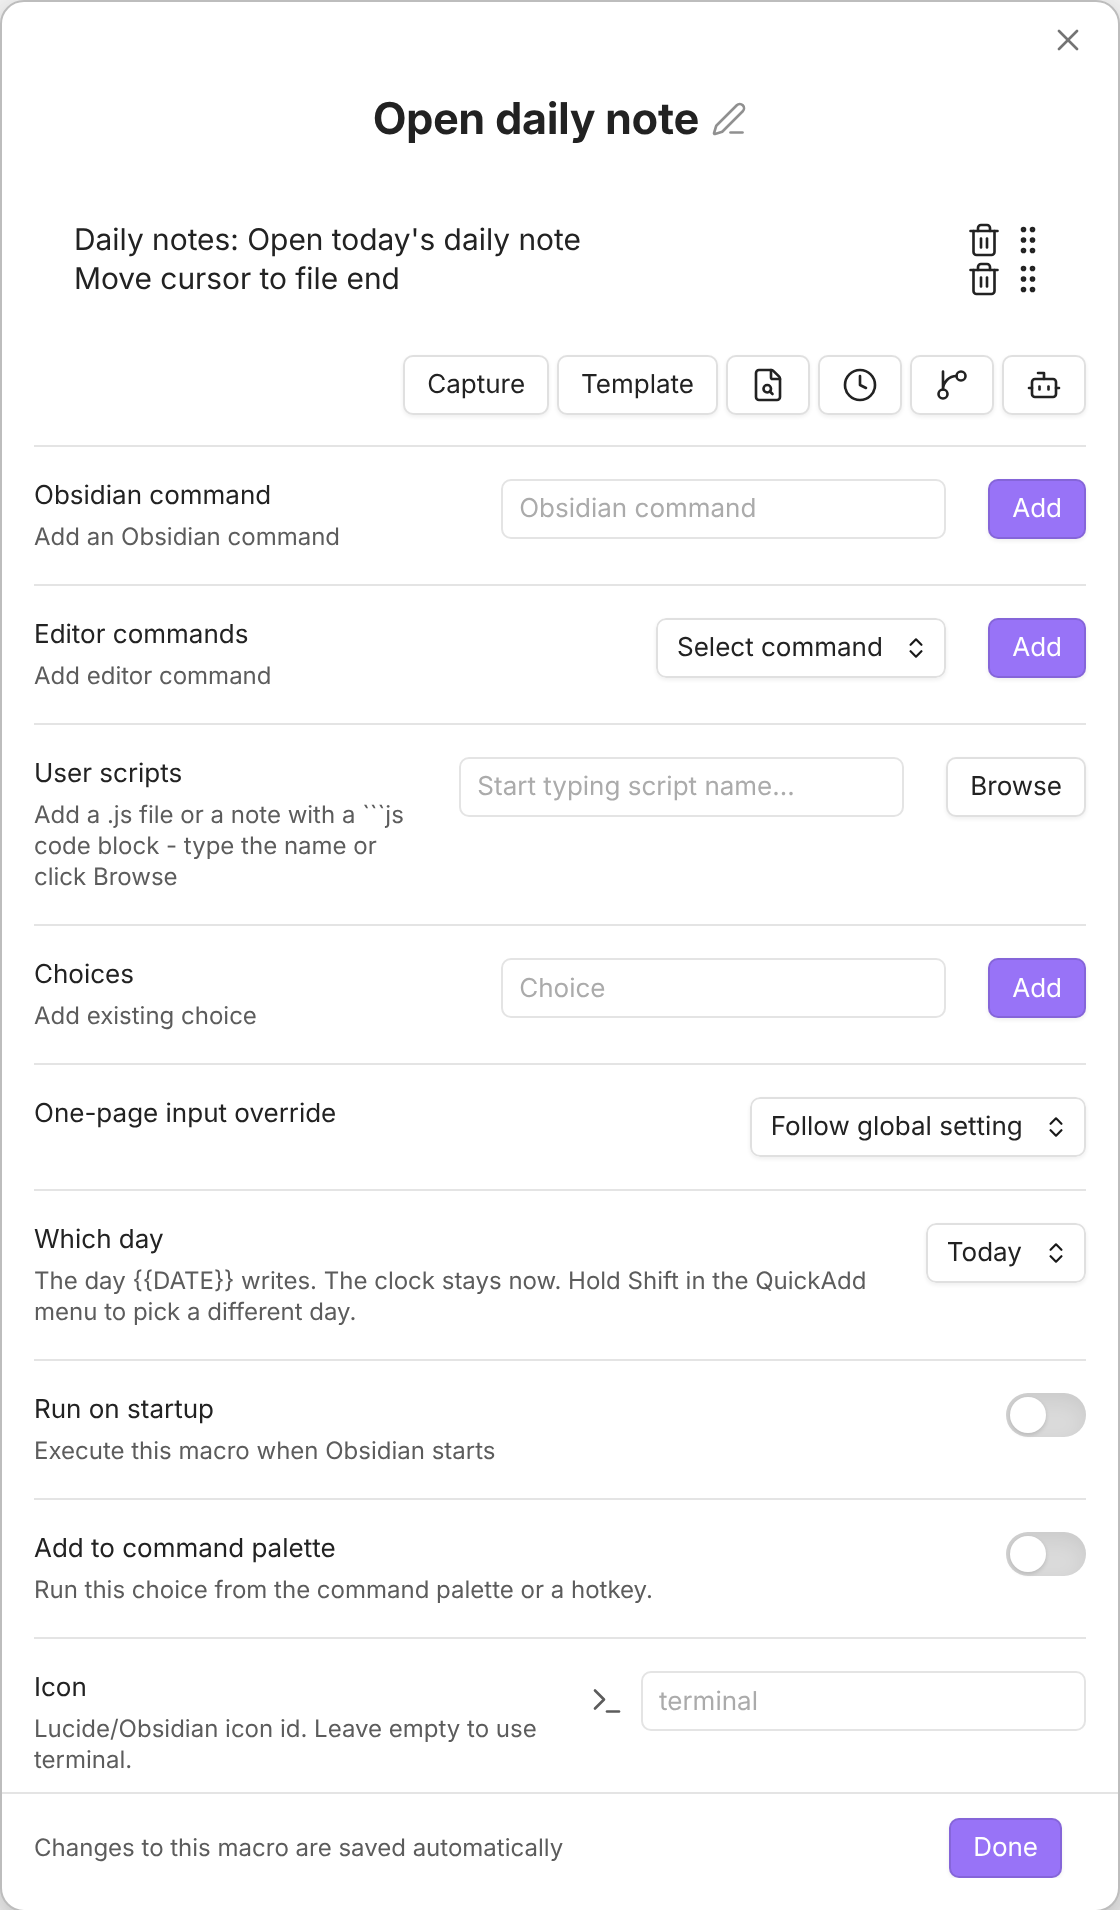
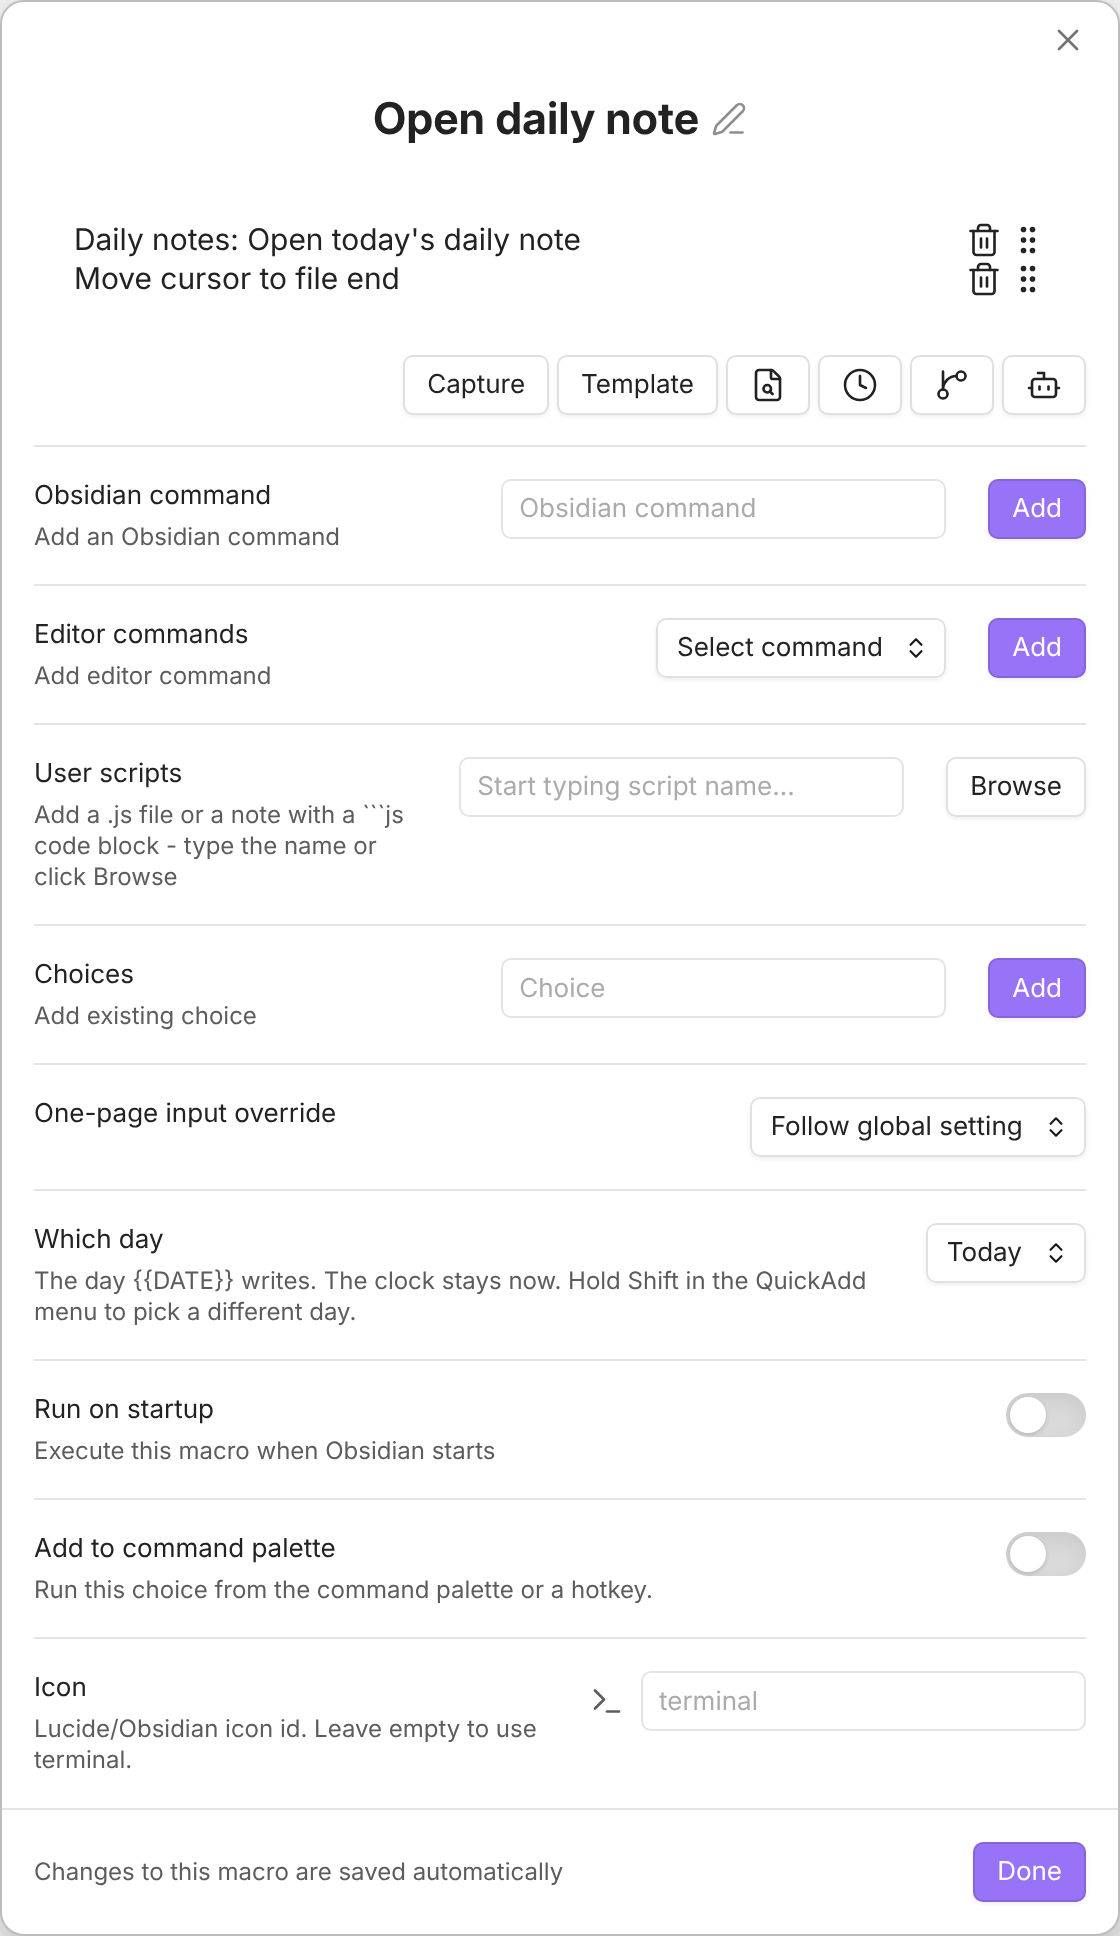
fix(modals): keep a pinned-footer dialog symmetric until it scrolls (#1923)
* fix(modals): keep a pinned-footer dialog symmetric until it scrolls

The one-page form and the choice builders reserved a scrollbar gutter on
the content and the footer at all times, so a dialog that fits kept 12 px of
blank space on its right only (16 px left, 28 px right).

The content now reserves a gutter only while it has a scrollbar, as core's
dialogs do, and the footer mirrors it through a scroll-driven animation: a
scroll timeline is inactive while its scroller has no overflow. The footer
gets the platform's own gutter width exactly while the content scrolls, so
the buttons stay aligned with the fields, and a dialog that fits is
symmetric again.

Recaptures the one-page form and the Template and Macro builder docs
screenshots, which showed the one-sided gap.

* fix(modals): gate the footer gutter mirror on timeline-scope too

diff --git a/tests/e2e/one-page-pinned-actions.test.ts b/tests/e2e/one-page-pinned-actions.test.ts
@@ -15,6 +15,8 @@ type Layout = {
 	/** Whether focused Submit's ring fits inside the footer, which clips it. */
 	ringFits: boolean | null;
 	focused: string;
+	/** Distances from the modal's inner edges to the rows and to the footer buttons. */
+	insets: { fieldsLeft: number; fieldsRight: number; buttonsLeft: number; buttonsRight: number };
 };
 
 const layout = () => getContext().obsidian.dev.evalJson<Layout>(`(() => {
@@ -38,7 +40,18 @@ const layout = () => getContext().obsidian.dev.evalJson<Layout>(`(() => {
 			&& box.left - ring >= clip.left
 			&& box.right + ring <= clip.right;
 	}
+	const outer = modal.getBoundingClientRect();
+	const border = parseFloat(getComputedStyle(modal).borderLeftWidth);
+	const rows = Array.from(content.querySelectorAll(".setting-item")).map((row) => row.getBoundingClientRect());
+	const buttons = Array.from(modal.querySelectorAll(".qa-modal-footer button")).map((button) => button.getBoundingClientRect());
+	const inset = (rects) => ({
+		left: Math.min(...rects.map((rect) => rect.left)) - outer.left - border,
+		right: outer.right - border - Math.max(...rects.map((rect) => rect.right)),
+	});
+	const fields = inset(rows);
+	const actions = inset(buttons);
 	return {
+		insets: { fieldsLeft: fields.left, fieldsRight: fields.right, buttonsLeft: actions.left, buttonsRight: actions.right },
 		overflows: content.scrollHeight > content.clientHeight || modal.scrollHeight > modal.clientHeight,
 		submitCentre: { x, y },
 		atSubmit: submit.contains(hit) ? "Submit" : describe(hit),
@@ -69,6 +82,9 @@ it.each(["desktop", "is-phone"])("keeps Submit in view on a form taller than the
 		const opened = await layout();
 		expect(opened.overflows).toBe(true);
 		expect(opened.atSubmit).toBe("Submit");
+		// The scrollbar narrows the fields; the buttons line up with them anyway.
+		expect(opened.insets.buttonsRight).toBeCloseTo(opened.insets.fieldsRight, 0);
+		expect(opened.insets.buttonsLeft).toBeCloseTo(opened.insets.fieldsLeft, 0);
 
 		// Keyboard path: from the last field, Tab lands on Submit, and the pinned
 		// footer doesn't clip its focus ring.
@@ -89,6 +105,52 @@ it.each(["desktop", "is-phone"])("keeps Submit in view on a form taller than the
 			if (window.__qaPinnedOriginalClasses !== undefined) document.body.className = window.__qaPinnedOriginalClasses;
 			delete window.__qaPinnedOriginalClasses;
 			delete window.__qaPinnedResult;
+			return true;
+		})()`);
+	}
+});
+
+// A form that fits used to keep a scrollbar's width of blank space on its right
+// only, reserved for a scrollbar it never showed.
+it.each(["desktop", "is-phone"])("keeps a form that fits symmetric, and aligned once it scrolls, under %s host styles", async (deviceClass) => {
+	const { obsidian } = getContext();
+	try {
+		await obsidian.dev.evalJson(`(() => {
+			window.__qaPinnedOriginalClasses = document.body.className;
+			if (${JSON.stringify(deviceClass)} === "is-phone") {
+				document.body.classList.remove("is-tablet");
+				document.body.classList.add("is-mobile", "is-phone");
+			}
+			void app.plugins.plugins.quickadd.api.requestInputs([
+				{ id: "title", label: "Title", type: "text" },
+				{ id: "body", label: "Body", type: "textarea", optional: true },
+			]).catch(() => undefined);
+			return true;
+		})()`);
+		await waitForElement(obsidian, ".onePageInputModal textarea");
+
+		const short = await layout();
+		expect(short.overflows).toBe(false);
+		expect(short.insets.fieldsLeft).toBeGreaterThan(0);
+		expect(short.insets.fieldsRight).toBeCloseTo(short.insets.fieldsLeft, 0);
+		expect(short.insets.buttonsLeft).toBeCloseTo(short.insets.fieldsLeft, 0);
+		expect(short.insets.buttonsRight).toBeCloseTo(short.insets.fieldsLeft, 0);
+
+		// Growing past the dialog brings in the scrollbar; the footer follows it.
+		await obsidian.dev.evalJson(`(() => {
+			document.querySelector(".onePageInputModal textarea").style.height = "2000px";
+			return true;
+		})()`);
+		await expect.poll(async () => (await layout()).overflows, POLL_OPTS).toBe(true);
+		await expect.poll(async () => {
+			const { insets } = await layout();
+			return Math.abs(insets.buttonsRight - insets.fieldsRight) < 0.5;
+		}, POLL_OPTS).toBe(true);
+	} finally {
+		await obsidian.dev.evalJson(`(() => {
+			[...document.querySelectorAll(".onePageInputModal button")].find((e) => e.textContent === "Cancel")?.click();
+			if (window.__qaPinnedOriginalClasses !== undefined) document.body.className = window.__qaPinnedOriginalClasses;
+			delete window.__qaPinnedOriginalClasses;
 			return true;
 		})()`);
 	}

diff --git a/src/styles.css b/src/styles.css
@@ -119,23 +119,44 @@
 	/* Inside the scrollport, so a ring on the last field survives, and content
 	   scrolling past is cut at the footer rule rather than above it. */
 	padding-bottom: var(--size-4-4);
-	/* Reserve the scrollbar gutter unconditionally, so the footer below can
-	   mirror it and stay aligned with the fields whether or not they scroll. */
-	scrollbar-gutter: stable;
+	/* Names the content's scroll progress for the footer below. */
+	scroll-timeline: --qa-modal-content y;
 }
 
 .quickAddModal .modal > .qa-modal-footer {
 	flex-shrink: 0;
 	margin-top: 0;
-	/* Sibling of the scrollport, so it carries the same inset itself — including
-	   the scrollbar gutter, which `overflow: hidden` + `scrollbar-gutter: stable`
-	   reserves at the platform's own width without ever showing a scrollbar. Without
-	   it the buttons and the footer rule overhang the fields above by the width
-	   of the scrollbar. */
+	/* Sibling of the scrollport, so it carries the same inset itself. */
 	padding: var(--size-4-4);
+	/* Lets `scrollbar-gutter` below take effect without ever showing a
+	   scrollbar. */
 	overflow: hidden;
-	scrollbar-gutter: stable;
 	border-top: var(--border-width) solid var(--background-modifier-border);
+}
+
+/* While the content scrolls, a classic scrollbar narrows it, and the footer
+   has to mirror that gutter or its buttons overhang the fields by the
+   scrollbar's width. A scroll timeline is inactive while its scroller has no
+   overflow, so this animation reserves the footer's gutter — at the
+   platform's own width, zero for overlay scrollbars — exactly when the
+   content has a scrollbar. A form that fits stays symmetric, as core's
+   dialogs are. */
+@supports (animation-timeline: scroll()) and (timeline-scope: --qa-modal-content) {
+	.quickAddModal .modal:has(> .qa-modal-footer) {
+		timeline-scope: --qa-modal-content;
+	}
+
+	.quickAddModal .modal > .qa-modal-footer {
+		animation: qa-modal-footer-gutter linear both;
+		animation-timeline: --qa-modal-content;
+	}
+}
+
+@keyframes qa-modal-footer-gutter {
+	from,
+	to {
+		scrollbar-gutter: stable;
+	}
 }
 
 /* Core gives the phone modal only its safe-area insets; the padding-inline: 0
